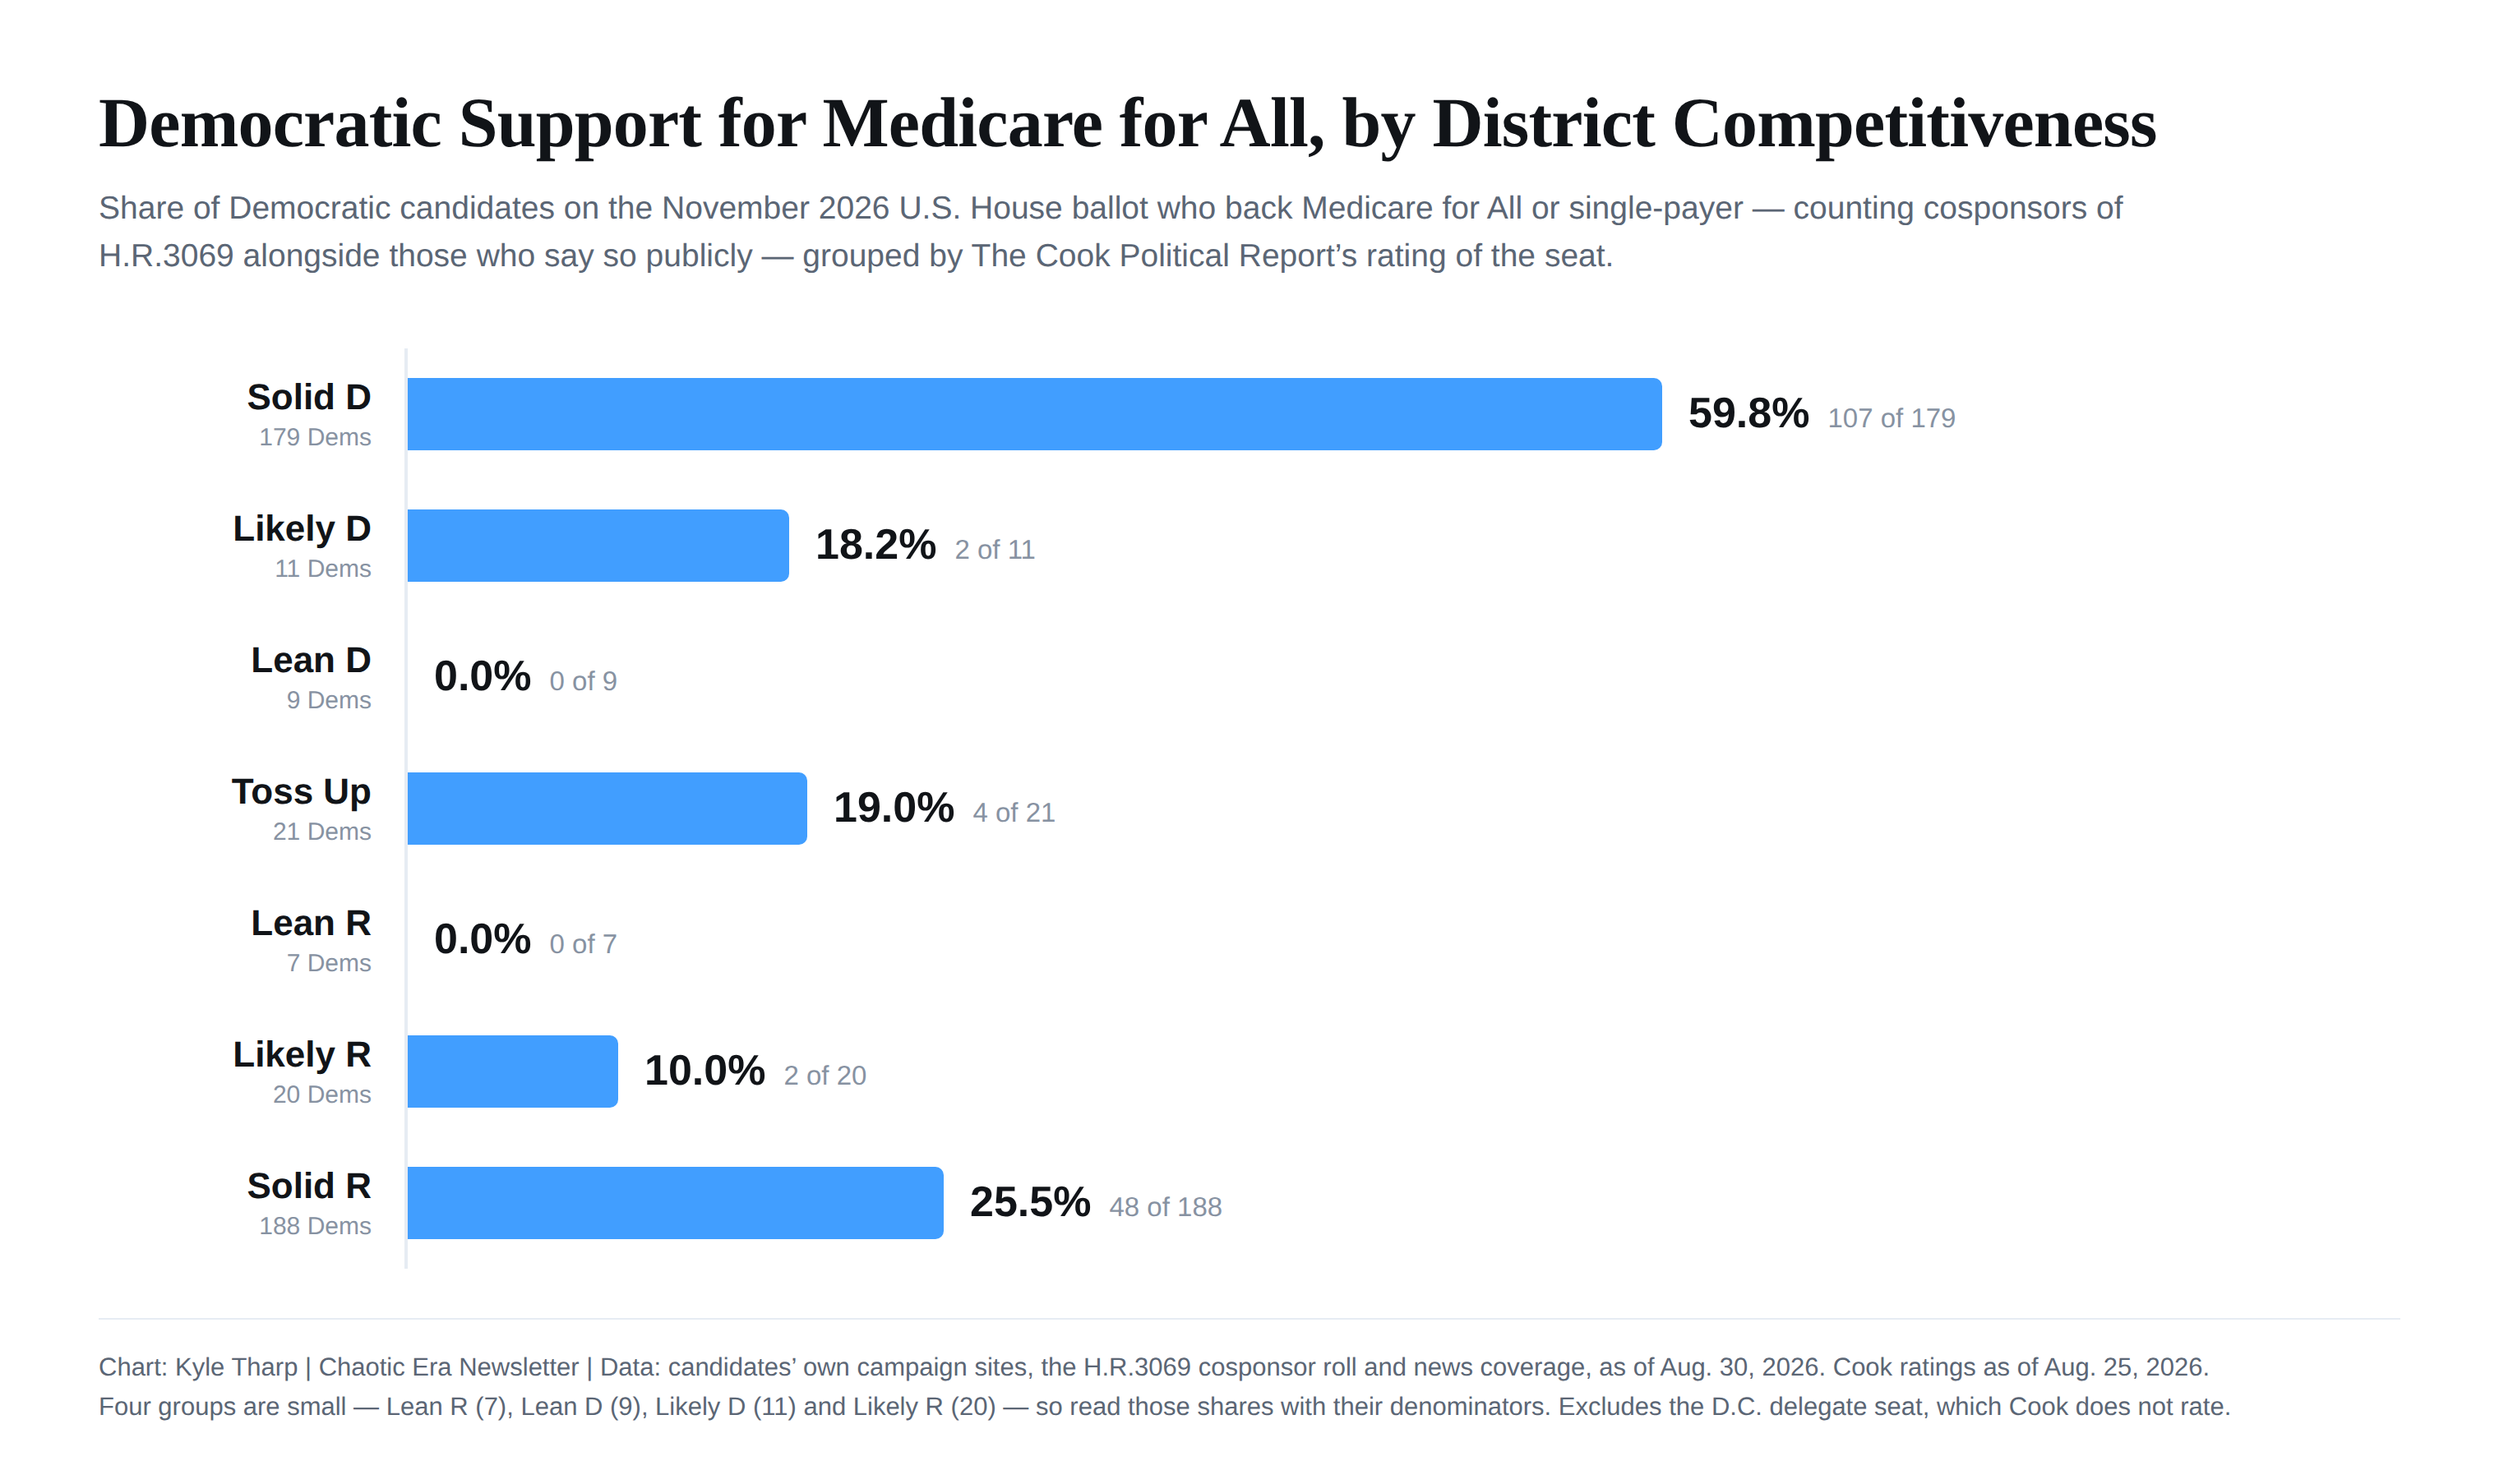
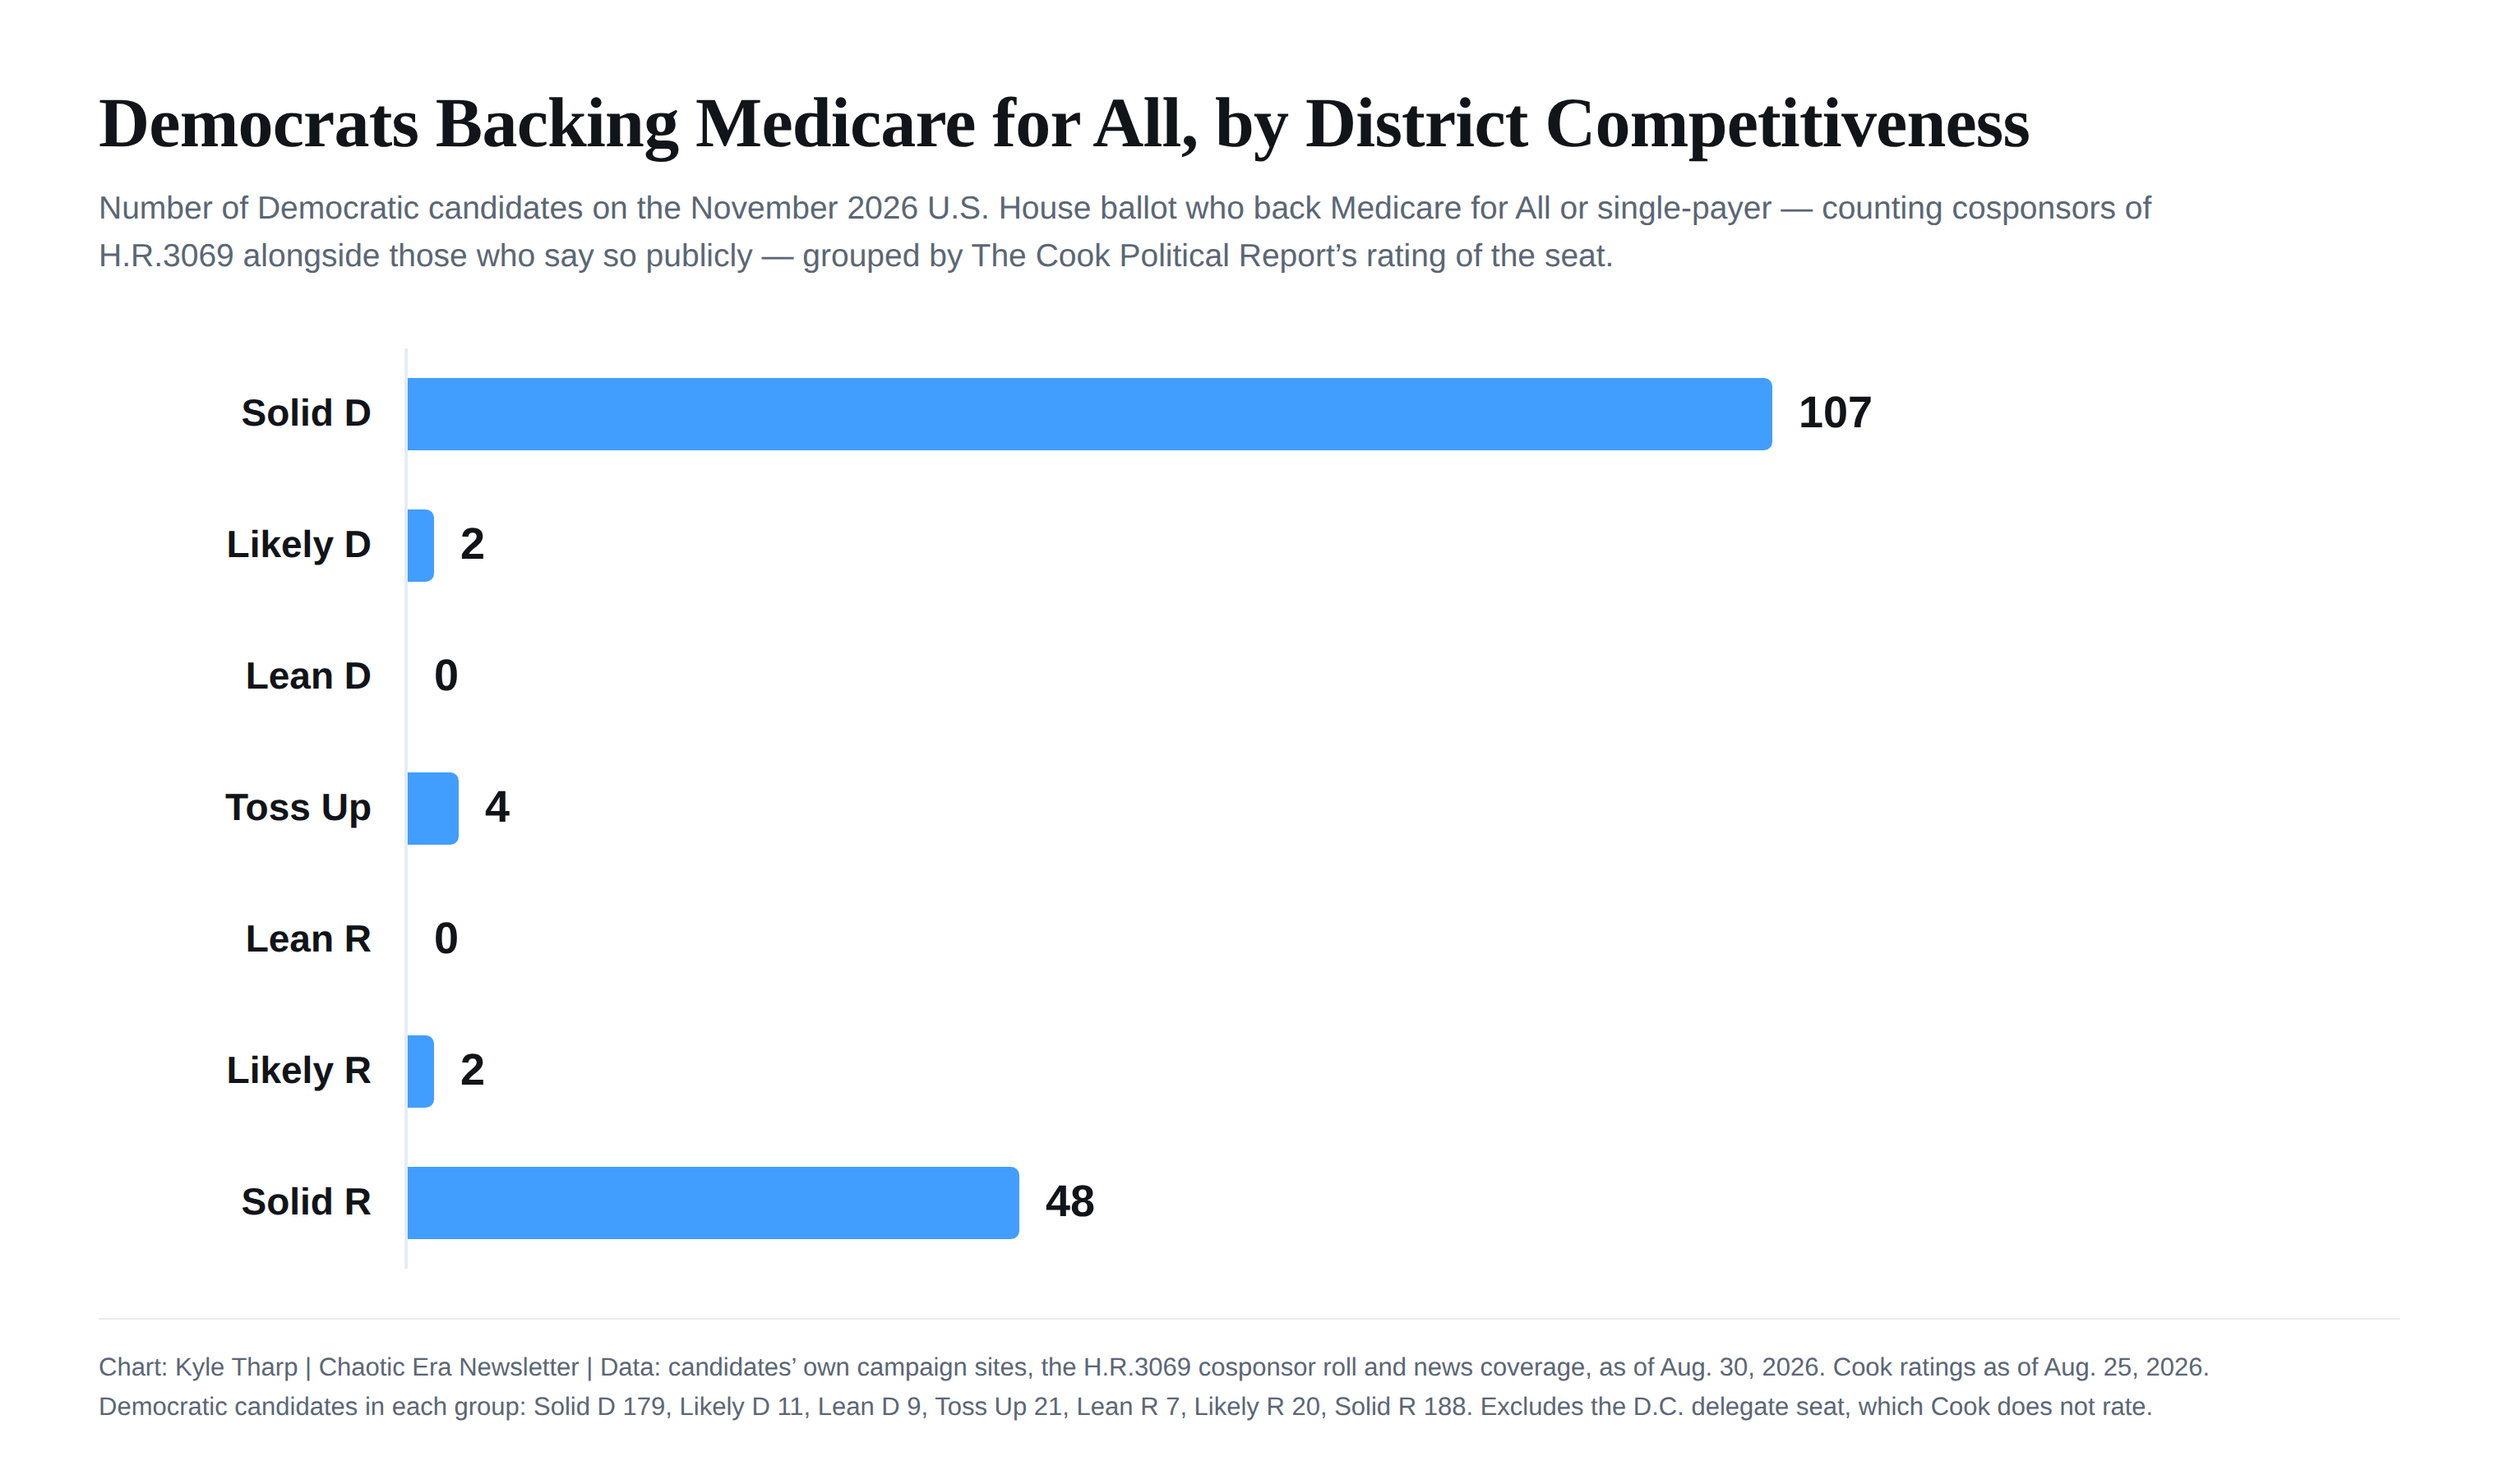
Chart: show raw counts of supporters, not shares
Bars are now the number of Democrats backing Medicare for All in each Cook
category, and each bar carries that number alone. The per-bar denominators and
the "N Dems" sub-labels are gone, which matches the newsletter's other charts.

Counts and shares tell different stories here, and the counts need their field
sizes to be read: 48 supporters out of 188 Solid R seats is not 48 out of 20.
Those sizes moved to the footnote rather than being dropped.

Claude-Session: https://claude.ai/code/session_01M9BaLdfsZ58QciAZUu2WDY

diff --git a/scripts/build_chart.py b/scripts/build_chart.py
@@ -28,9 +28,9 @@ FACES = {
     "inter400.ttf": ("Inter", "400"),
     "inter600.ttf": ("Inter", "600"),
 }
-#: Bars are scaled against this rather than 100%, so the field's actual range
-#: fills the width instead of hugging the axis.
-MAX_PCT = 65.0
+#: Bars carry the raw count of supporters, scaled so the largest group fills
+#: the zone. Counts, not shares: the chart answers "how many", and the field
+#: sizes that would turn these into rates are given in the footnote instead.
 BAR_ZONE_PX = 830
 ACCENT = "#419eff"
 
@@ -77,24 +77,20 @@ def tally(data: dict) -> list[tuple[str, int, int]]:
 
 def render_html(rows: list[tuple[str, int, int]], fonts: dict[str, str],
                 as_of: str, ratings_as_of: str) -> str:
+    top = max(sup for _, _, sup in rows) or 1
     bars = []
     for label, n, sup in rows:
-        pct = 100 * sup / n
-        # A true zero draws no bar. A hairline stub would read as a small value.
-        width = round(pct / MAX_PCT * BAR_ZONE_PX)
+        # A true zero draws no bar. A hairline stub would read as a small count.
+        width = round(sup / top * BAR_ZONE_PX)
         bars.append(
-            f'<div class="row"><div class="cat">{label}'
-            f'<span class="n">{n} Dem{"s" if n != 1 else ""}</span></div>'
+            f'<div class="row"><div class="cat">{label}</div>'
             f'<div class="bar" style="width:{width}px"></div>'
-            f'<div class="val"><b>{pct:.1f}%</b>'
-            f'<span class="of">{sup} of {n}</span></div></div>'
+            f'<div class="val"><b>{sup}</b></div></div>'
         )
-    small = [f"{r} ({n})" for r, n, _ in sorted(rows, key=lambda x: x[1]) if n <= 20]
-    small_note = (
-        f"{'Four' if len(small) == 4 else str(len(small))} groups are small &mdash; "
-        + ", ".join(small[:-1]) + f" and {small[-1]}" +
-        " &mdash; so read those shares with their denominators. "
-    ) if len(small) > 1 else ""
+    # The bars are counts, so the size of each field is the context that makes
+    # them readable: 48 out of 188 Solid R seats is not 48 out of 20.
+    field = ", ".join(f"{r} {n}" for r, n, _ in rows)
+    small_note = f"Democratic candidates in each group: {field}. "
 
     face = lambda fam, wt, key: (
         f"@font-face{{font-family:'{fam}';font-weight:{wt};"
@@ -111,17 +107,15 @@ h1{{font-family:'Plex',serif;font-weight:700;font-size:43px;letter-spacing:-.4px
 .sub{{font-size:19.5px;color:#5b6675;margin-top:13px;line-height:1.5;max-width:1260px}}
 .chart{{margin-top:40px;border-left:2px solid #e6ecf3;margin-left:186px}}
 .row{{display:flex;align-items:center;height:80px;margin-left:-186px}}
-.cat{{width:186px;text-align:right;padding-right:22px;font-size:22px;font-weight:600;flex:none}}
-.cat .n{{display:block;font-size:15px;font-weight:400;color:#8792a2;margin-top:3px}}
+.cat{{width:186px;text-align:right;padding-right:22px;font-size:23px;font-weight:600;flex:none}}
 .bar{{height:44px;background:{ACCENT};border-radius:0 5px 5px 0;flex:none}}
-.val{{display:flex;align-items:baseline;gap:11px;padding-left:16px;white-space:nowrap}}
-.val b{{font-size:26px;font-weight:600}}
-.val .of{{font-size:16.5px;color:#8792a2}}
+.val{{padding-left:16px;white-space:nowrap}}
+.val b{{font-size:27px;font-weight:600}}
 .foot{{margin-top:30px;padding-top:18px;border-top:1px solid #e6ecf3;
       font-size:15.5px;color:#5b6675;line-height:1.55}}
 </style></head><body>
-<h1>Democratic Support for Medicare for All, by District Competitiveness</h1>
-<p class="sub">Share of Democratic candidates on the November 2026 U.S. House ballot who back
+<h1>Democrats Backing Medicare for All, by District Competitiveness</h1>
+<p class="sub">Number of Democratic candidates on the November 2026 U.S. House ballot who back
 Medicare for All or single-payer &mdash; counting cosponsors of H.R.3069 alongside those who say so
 publicly &mdash; grouped by The Cook Political Report&rsquo;s rating of the seat.</p>
 <div class="chart">{''.join(bars)}</div>
